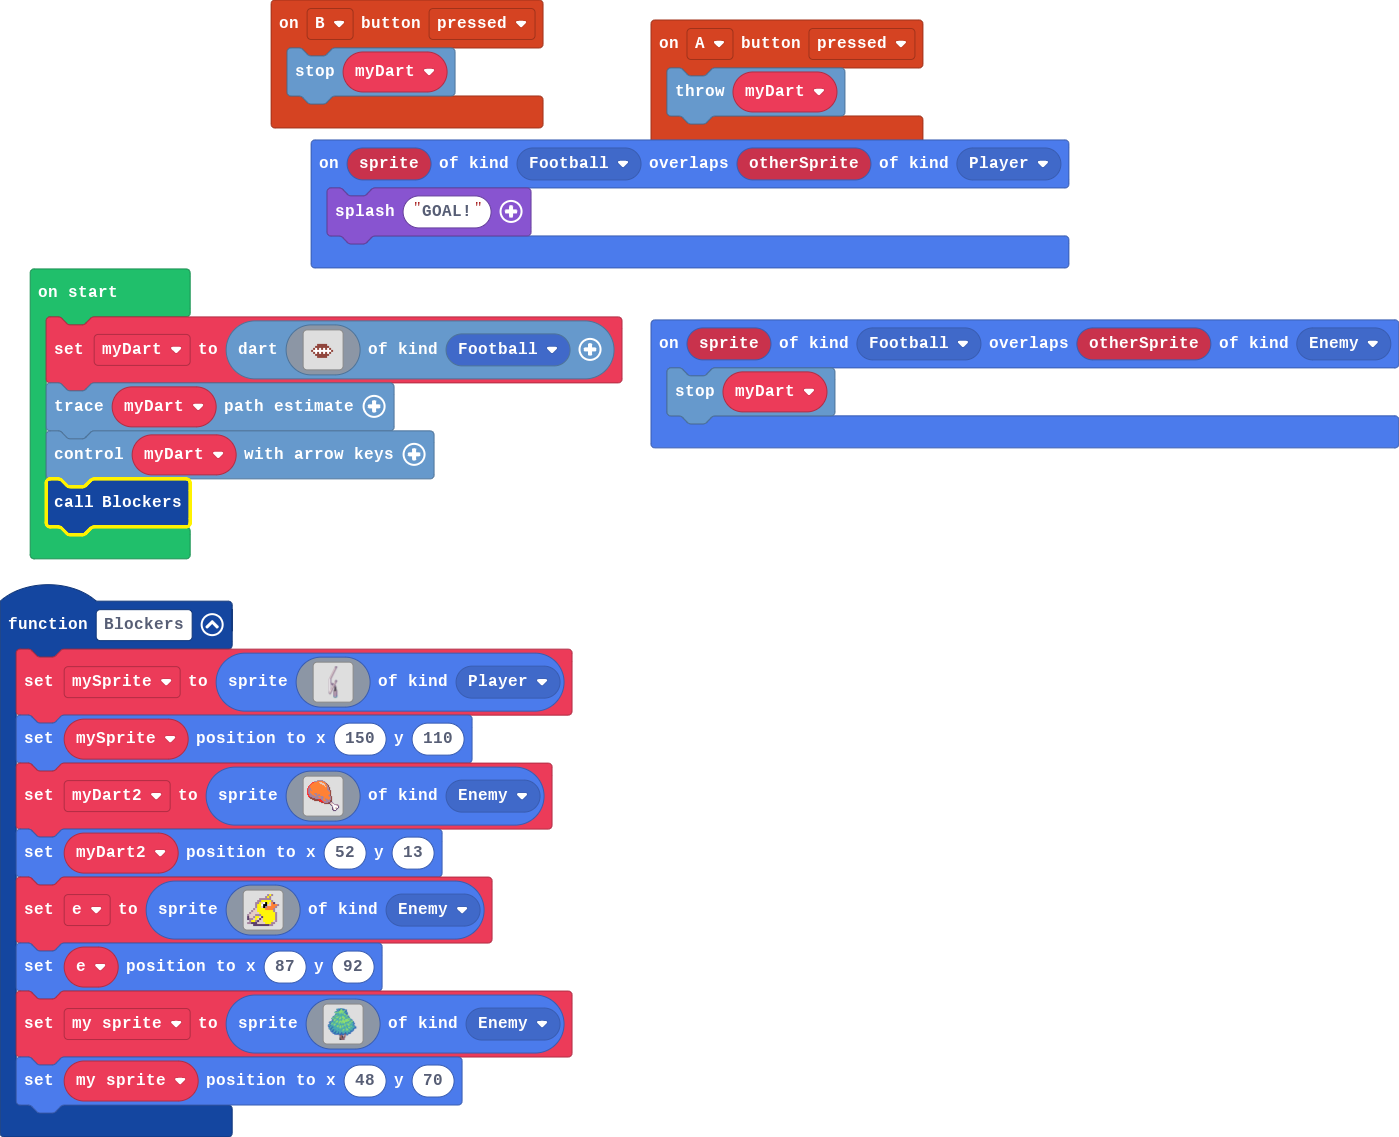
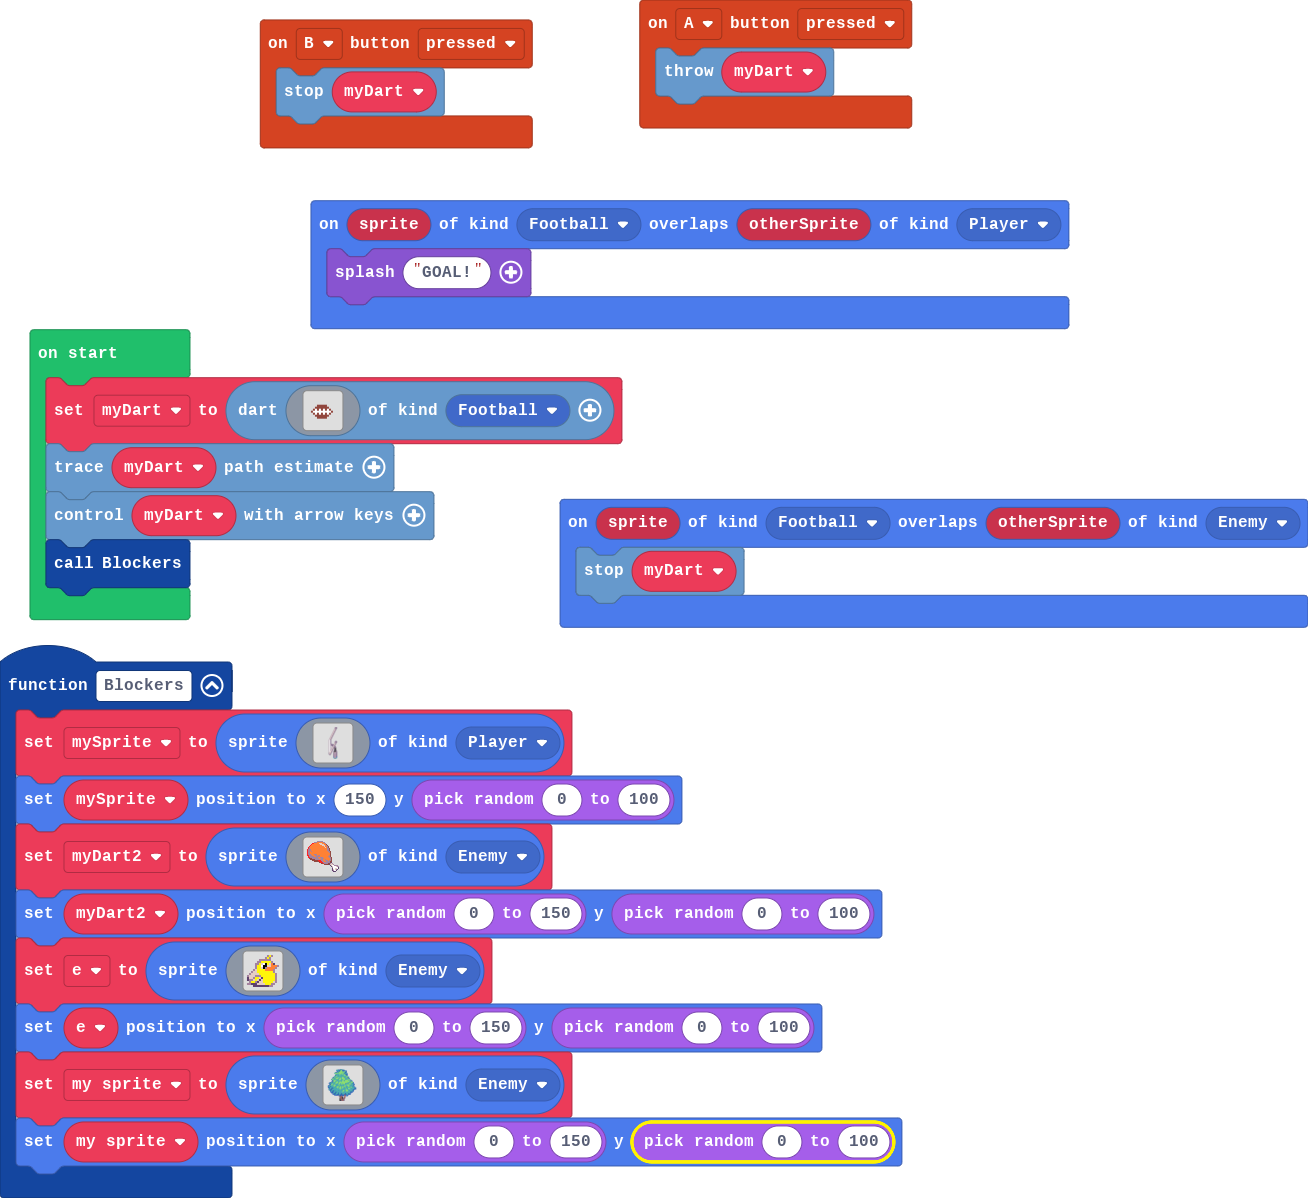
Update main.blocks, main.ts

diff --git a/main.ts b/main.ts
@@ -74,7 +74,7 @@ function Blockers () {
         ..........6bbb6.
         ...........666..
         `, SpriteKind.Player)
-    mySprite.setPosition(150, 110)
+    mySprite.setPosition(150, randint(0, 100))
     myDart2 = sprites.create(img`
         ..........bbbbbb................
         .......bbb444444bb..............
@@ -109,7 +109,7 @@ function Blockers () {
         ..........................ccc...
         ................................
         `, SpriteKind.Enemy)
-    myDart2.setPosition(52, 13)
+    myDart2.setPosition(randint(0, 150), randint(0, 100))
     e = sprites.create(img`
         . . . . . . . . . . b 5 b . . . 
         . . . . . . . . . b 5 b . . . . 
@@ -128,7 +128,7 @@ function Blockers () {
         b b c c c d d d d 5 5 5 b b . . 
         . . . c c c c c c c c b b . . . 
         `, SpriteKind.Enemy)
-    e.setPosition(87, 92)
+    e.setPosition(randint(0, 150), randint(0, 100))
     my_sprite = sprites.create(img`
         ................86..................
         ...........6688867886...............
@@ -172,7 +172,7 @@ function Blockers () {
         ...............fceeec...............
         ...............ffceec...............
         `, SpriteKind.Enemy)
-    my_sprite.setPosition(48, 70)
+    my_sprite.setPosition(randint(0, 150), randint(0, 100))
 }
 sprites.onOverlap(SpriteKind.Football, SpriteKind.Player, function (sprite, otherSprite) {
     game.splash("GOAL!")
